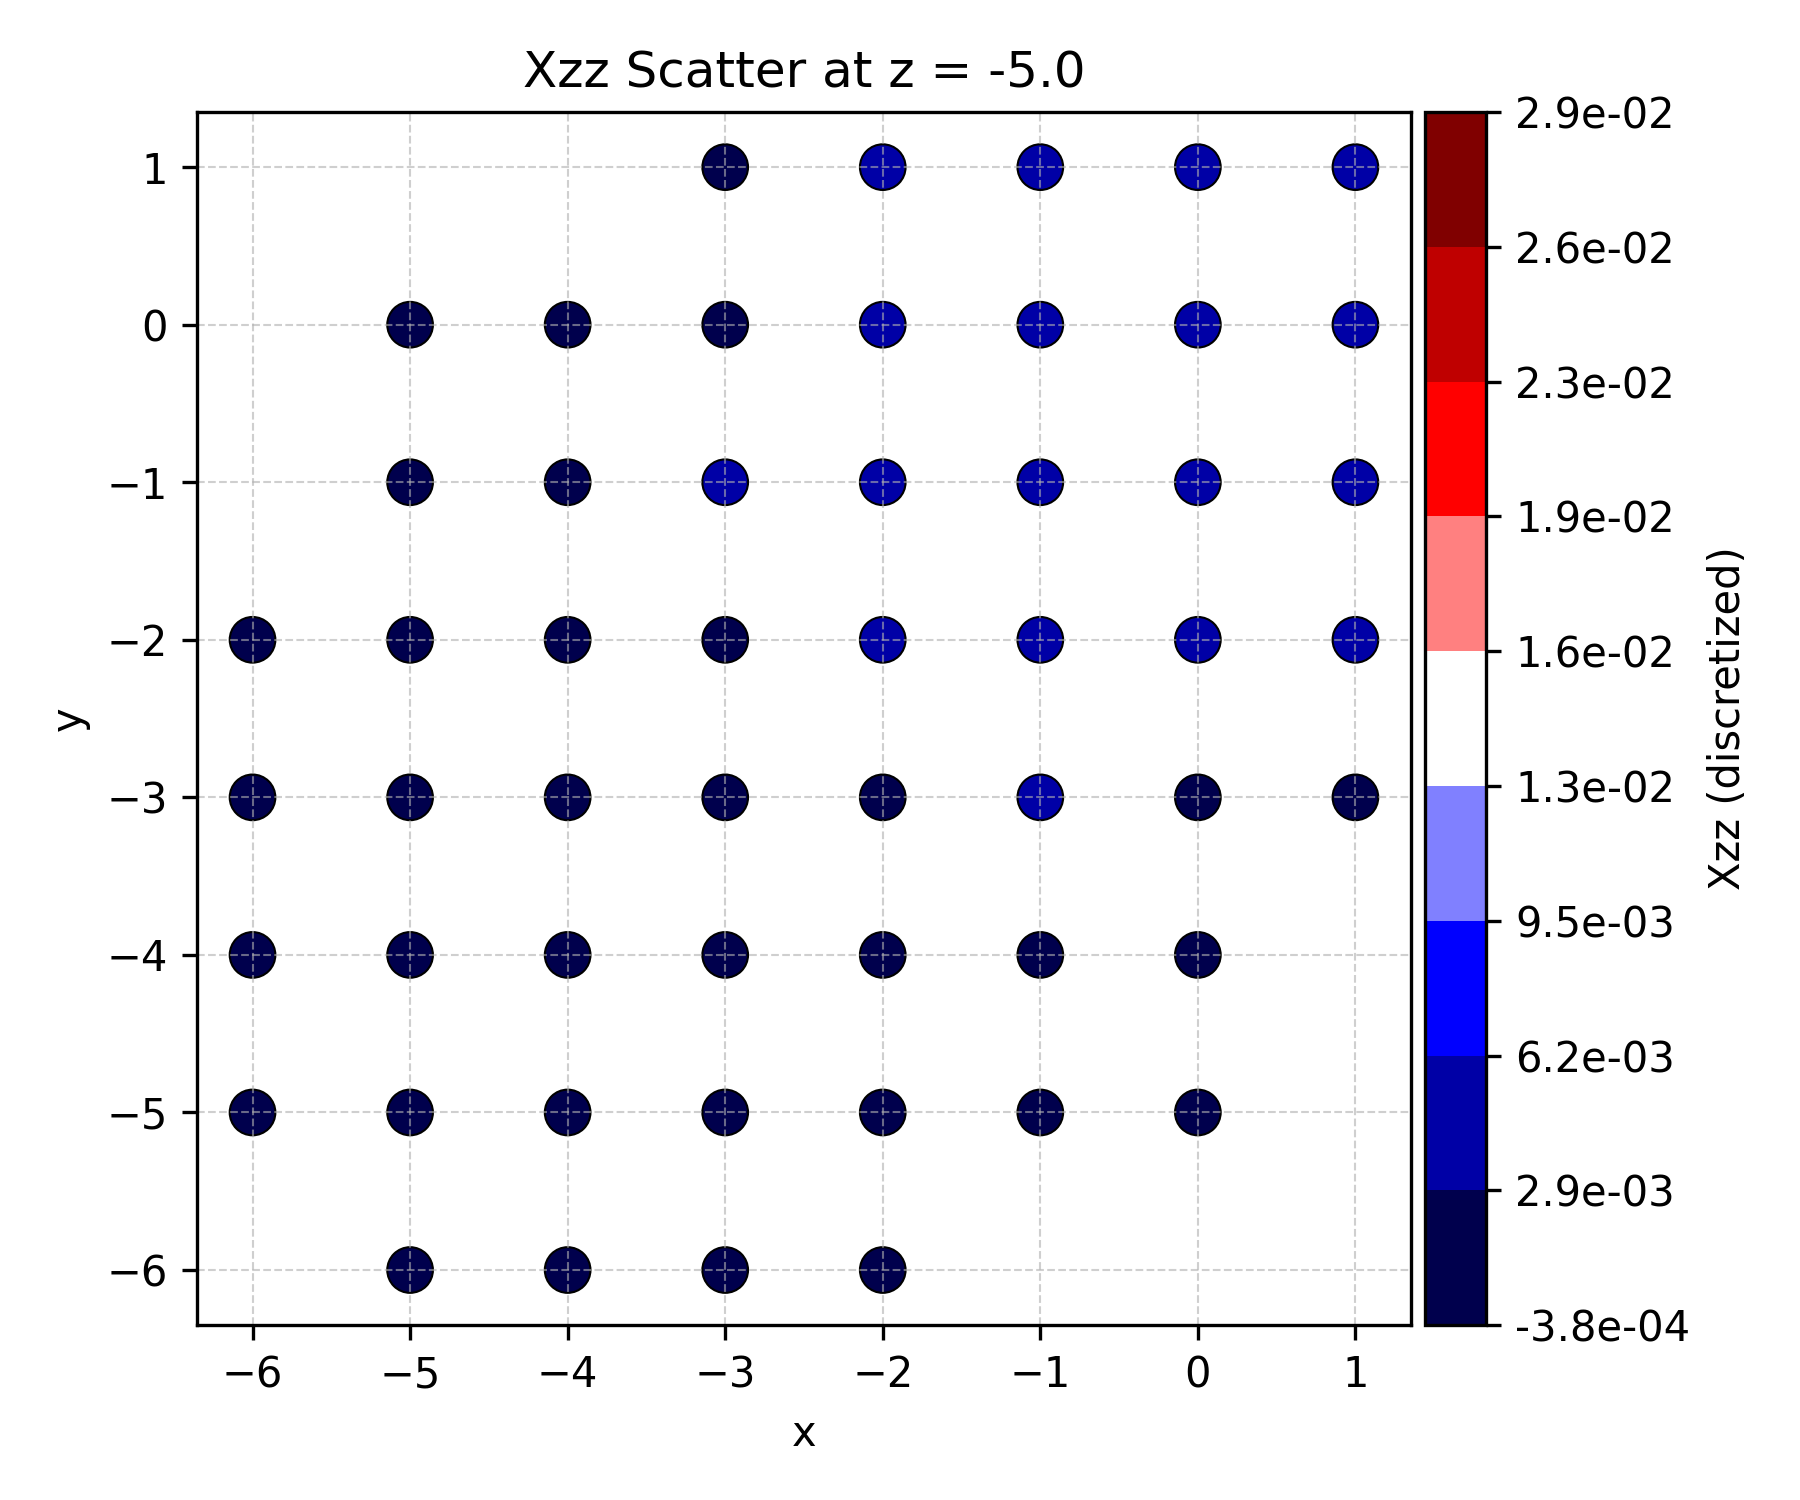
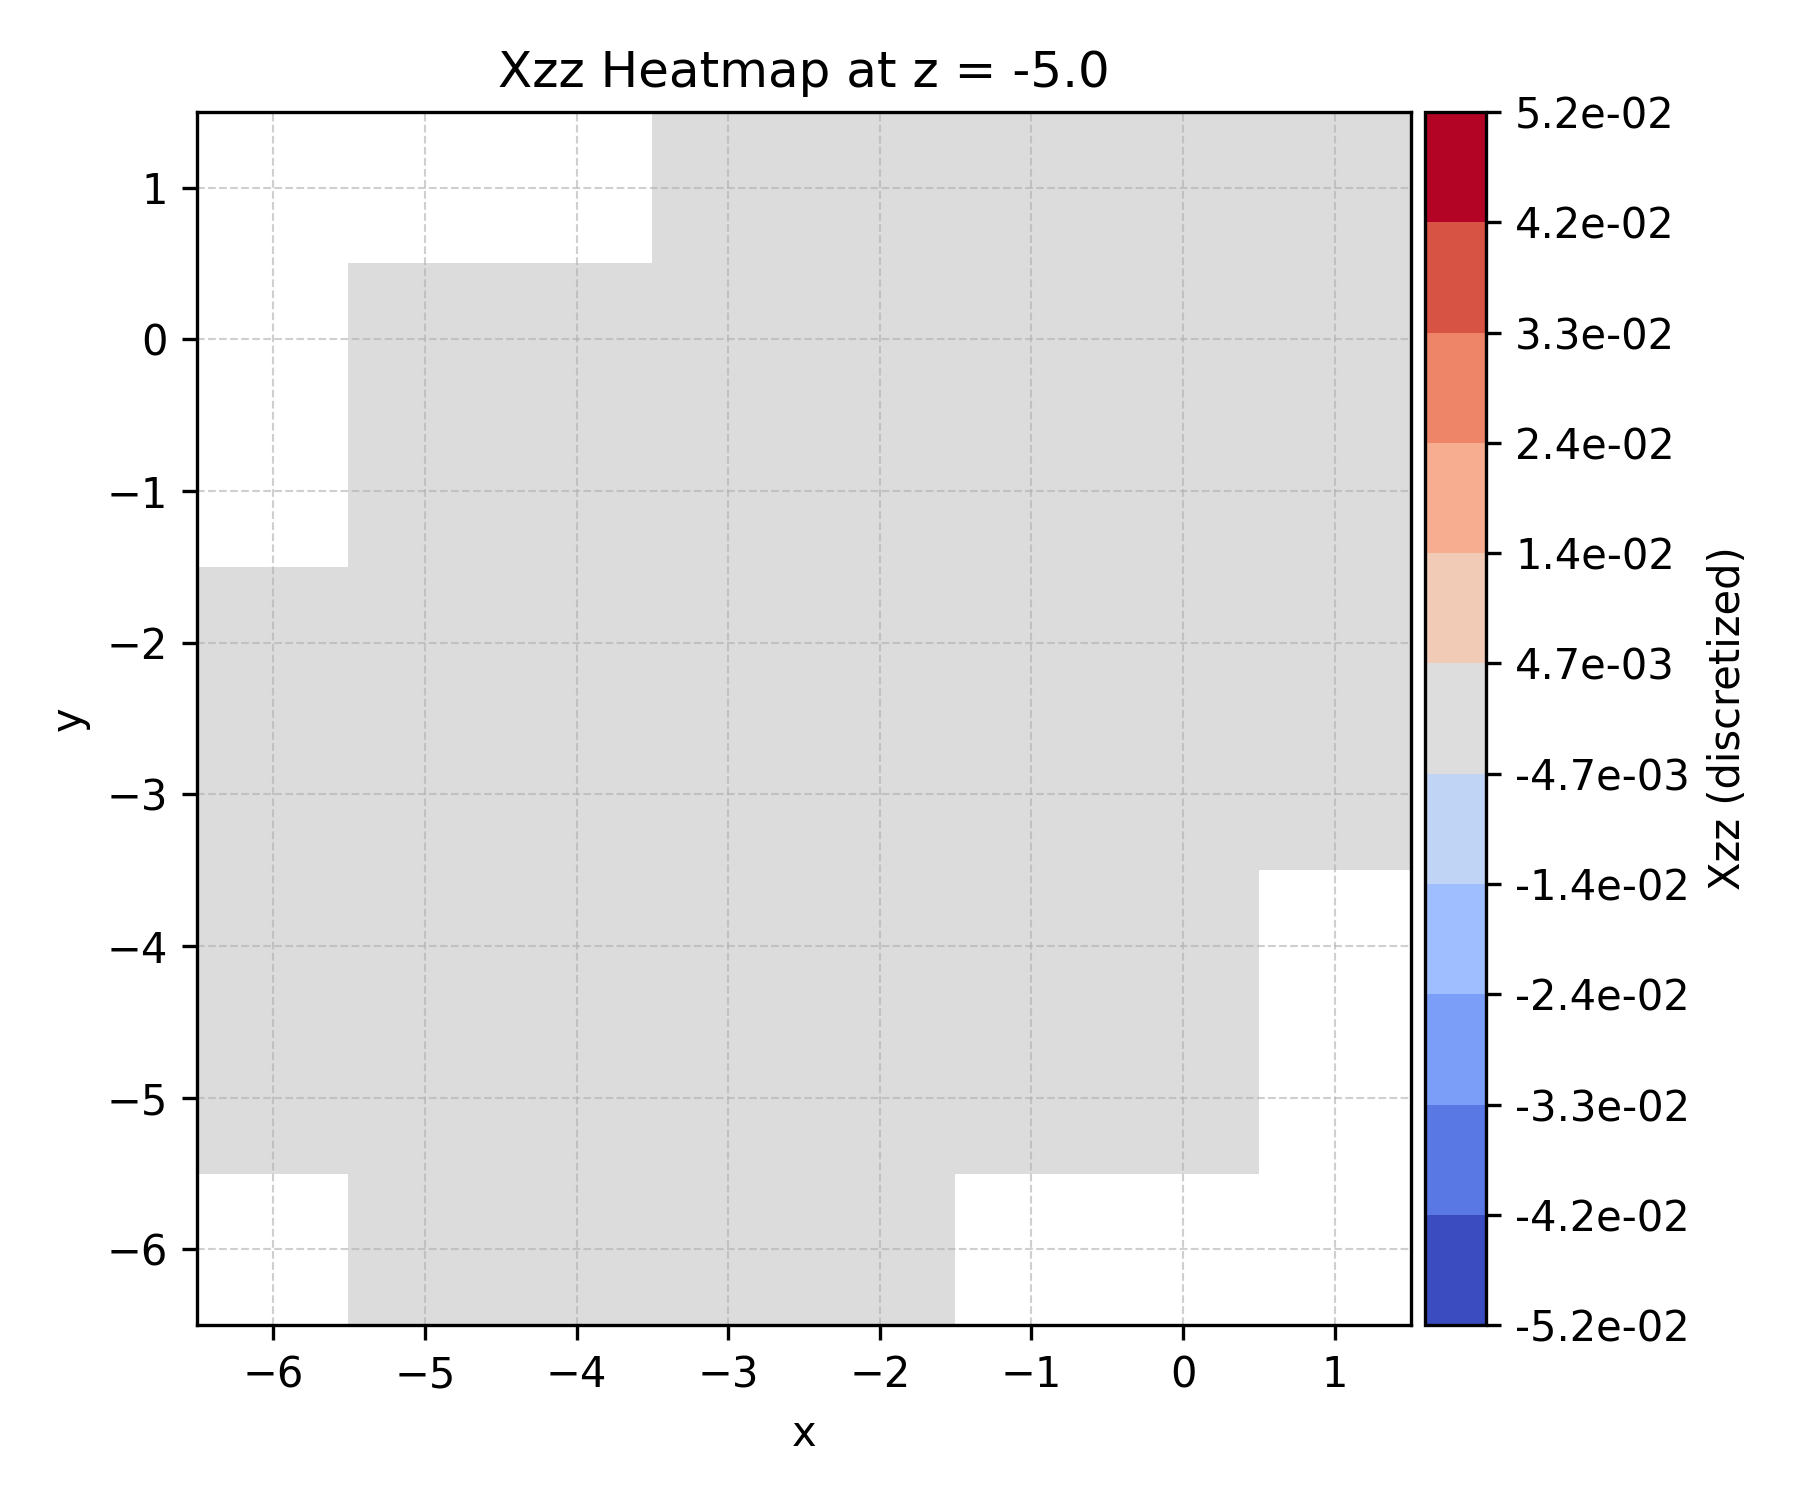
Updated graphics code and scaling

diff --git a/script_version_two/3d_plot.py b/script_version_two/3d_plot.py
@@ -7,7 +7,7 @@ import numpy as np
 import os
 
 # === Load CSV data ===
-file_path = r'data\xzz_output.csv'
+file_path = r'data\xzz_output_iter.csv'
 df = pd.read_csv(file_path)
 
 # === Parse j-coordinate strings to (x, y, z)
@@ -24,47 +24,52 @@ print("Max diff under inversion symmetry:", diff.max())
 output_dir = 'z_layer_plots'
 os.makedirs(output_dir, exist_ok=True)
 
-# === Discrete color setup
-N_BINS = 9  # Number of discrete color steps
-vmin = df['Xzz'].min()
-vmax = df['Xzz'].max()
+# === Color normalization and mapping ===
+N_BINS = 11
+vmax = df['Xzz'].abs().max()
+vmin = -vmax  # Center colormap on 0
 bounds = np.linspace(vmin, vmax, N_BINS + 1)
 norm = BoundaryNorm(boundaries=bounds, ncolors=N_BINS)
-cmap = plt.get_cmap('seismic', N_BINS)  # discrete seismic map
+cmap = plt.get_cmap('coolwarm', N_BINS)  # perceptual clarity around 0
 
-# === Plot 2D scatter plots layer by layer ===
+# === Plot 2D "pixel" maps per z-layer ===
 z_layers = sorted(df['z'].unique())
 
 for z_val in z_layers:
     layer_df = df[df['z'] == z_val]
+    x_vals = sorted(layer_df['x'].unique())
+    y_vals = sorted(layer_df['y'].unique())
+
+    x_index = {v: i for i, v in enumerate(x_vals)}
+    y_index = {v: i for i, v in enumerate(y_vals)}
+    grid = np.full((len(y_vals), len(x_vals)), np.nan)
+
+    for _, row in layer_df.iterrows():
+        i = y_index[row['y']]
+        j = x_index[row['x']]
+        grid[i, j] = row['Xzz']
 
     fig, ax = plt.subplots(figsize=(6, 5))
-    sc = ax.scatter(
-        layer_df['x'], layer_df['y'],
-        c=layer_df['Xzz'],
-        cmap=cmap,
-        norm=norm,
-        s=120, edgecolor='black', linewidth=0.5
-    )
+    im = ax.imshow(grid, origin='lower', cmap=cmap, norm=norm,
+                   extent=[min(x_vals)-0.5, max(x_vals)+0.5, min(y_vals)-0.5, max(y_vals)+0.5], # type: ignore
+                   interpolation='none', aspect='equal')
 
-    ax.set_title(f'Xzz Scatter at z = {z_val}')
+    ax.set_title(f'Xzz Heatmap at z = {z_val}')
     ax.set_xlabel('x')
     ax.set_ylabel('y')
-    ax.set_aspect('equal', adjustable='box')
     ax.grid(True, linestyle='--', linewidth=0.5, alpha=0.6)
 
-    cbar = plt.colorbar(sc, ax=ax, pad=0.01, ticks=bounds)
+    cbar = plt.colorbar(im, ax=ax, pad=0.01, ticks=bounds)
     cbar.set_label('Xzz (discretized)')
-    cbar.ax.set_yticklabels([f"{b:.1e}" for b in bounds])  # scientific notation
+    cbar.ax.set_yticklabels([f"{b:.1e}" for b in bounds])
 
     plt.tight_layout()
     output_path = os.path.join(output_dir, f'Xzz_z{z_val:.1f}.png')
     plt.savefig(output_path, dpi=300)
     plt.close()
-
     print(f"Saved: {output_path}")
 
-# === 3D scatter with discrete colormap ===
+# === 3D scatter plot ===
 fig = plt.figure(figsize=(10, 8))
 ax = fig.add_subplot(111, projection='3d')
 
